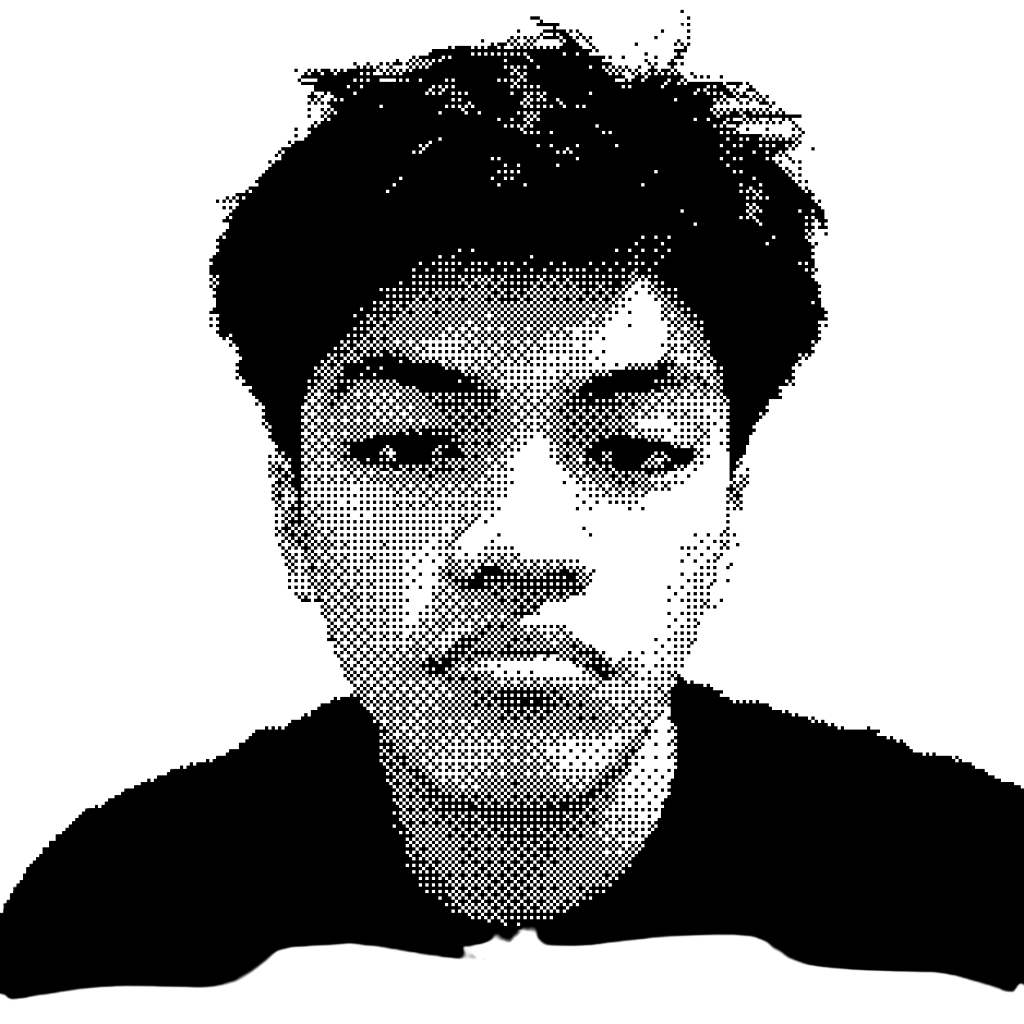
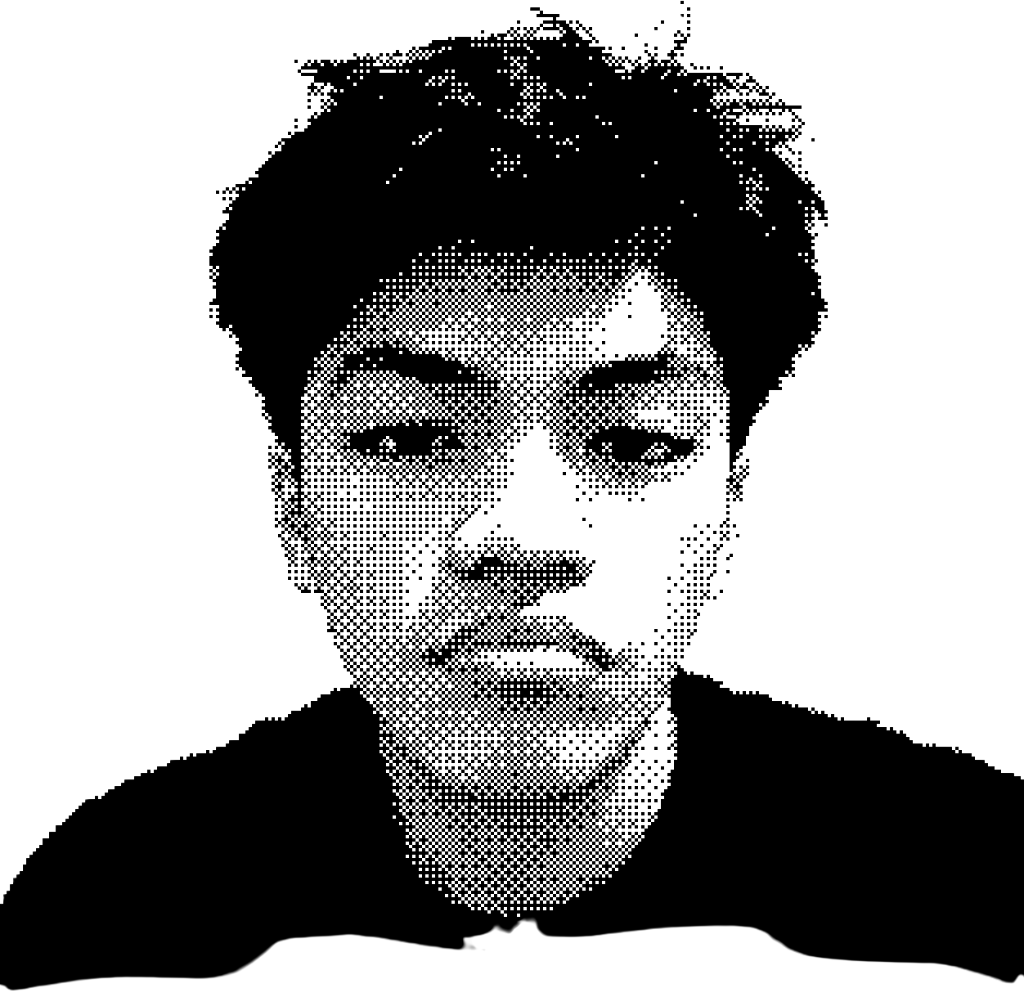
fix: auto-crop transparent gap at bottom of profile.png and update cache buster

diff --git a/components/Hero.tsx b/components/Hero.tsx
@@ -44,8 +44,8 @@ export default function Hero() {
       >
         <div className="relative w-[200px] h-[240px] md:w-[240px] md:h-[300px]">
           <HoverWipeProfile 
-            imageSrc="/profile.png?v=2" 
-            videoSrc="/profile-anime.gif?v=2" 
+            imageSrc="/profile.png?v=3" 
+            videoSrc="/profile-anime.gif?v=3" 
           />
         </div>
       </motion.div>
